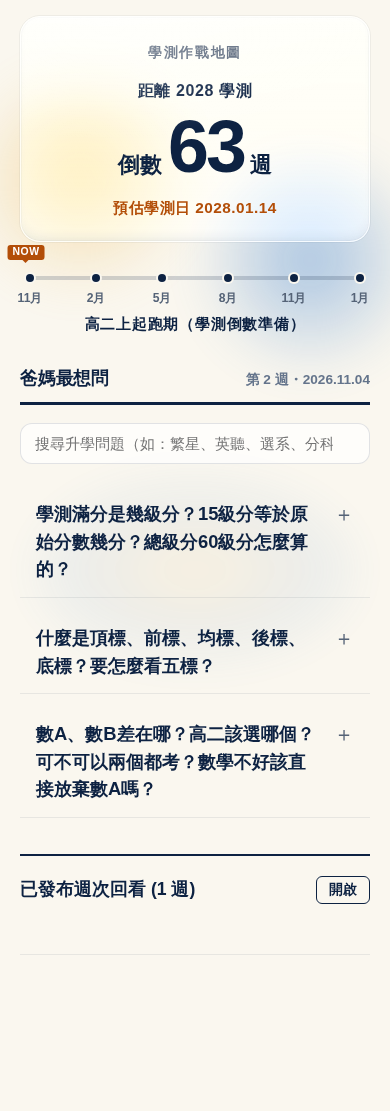
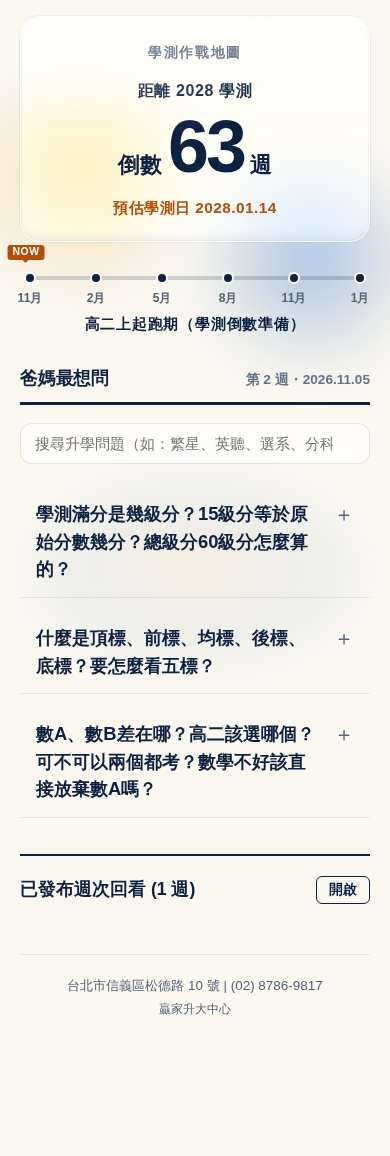
更新第 2 週逐週建議內容與上架日期
- `data/weekly_advice.json`：替換第 2 週建議內容。
- `data/faq_data.json`：修改第 2 週的發布日期。
- `index.html`：修改靜態標籤上的第 2 週日期。
- `sw.js`：更新 `CACHE_NAME` 版本。

diff --git a/index.html b/index.html
@@ -107,7 +107,7 @@
           <div class="faq-header-block">
             <div class="faq-title-row">
               <h1 class="faq-main-title">爸媽最想問</h1>
-              <span class="faq-week-date-pill" id="cur-week-tag">第 2 週・2026.11.04</span>
+              <span class="faq-week-date-pill" id="cur-week-tag">第 2 週・2026.11.05</span>
             </div>
             <div class="faq-thick-divider"></div>
           </div>

diff --git a/sw.js b/sw.js
@@ -1,4 +1,4 @@
-const CACHE_NAME = 'roadmap-2028-v7-network-first';
+const CACHE_NAME = 'roadmap-2028-v8-network-first';
 
 self.addEventListener('install', (event) => {
   self.skipWaiting();
